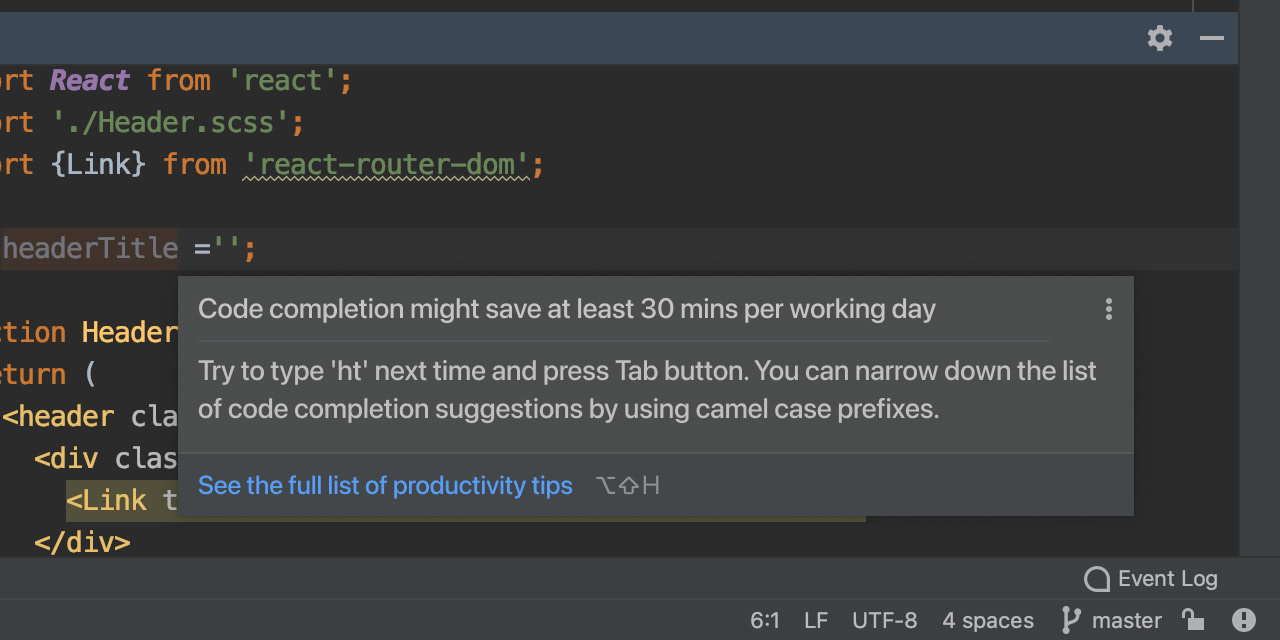
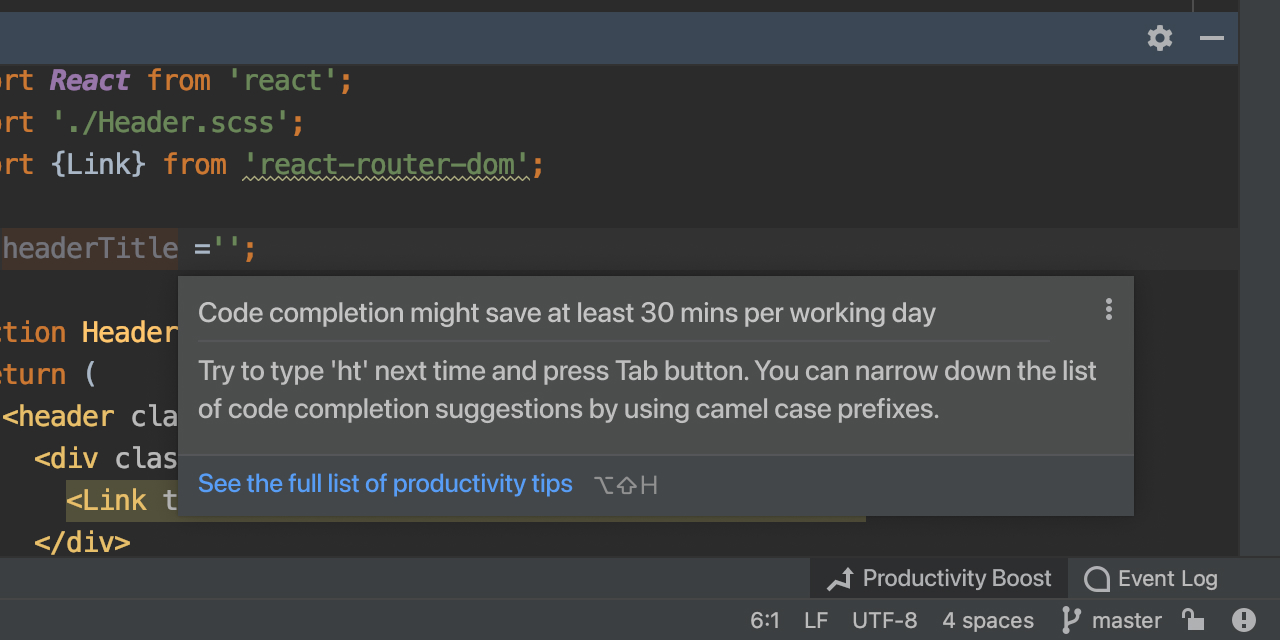
Haha, commit

Changed region(s): [[0.1562, 0.4688, 0.75, 0.5312], [0.1562, 0.7188, 0.5312, 0.7812], [0.6562, 0.875, 0.8125, 0.9375]]

diff --git a/docs/jb.html b/docs/jb.html
@@ -33,11 +33,11 @@
             <imgcaption class="article__image-caption">Click to the img to see full size version</imgcaption></a></figure>
         <p>It would be a perspective hypothesis, but the importunity of this decision was confusing me. IDEA has a lot of close to the code features (for example, quick fixes hint's, intention bulbs, colour highlighting). One more tip near the code can annoy users:</p>
         <figure class="article__image">
-          <iframe width="640" height="380" src="https://www.youtube.com/embed/jNE6T4oaRNE" frameborder="0" allow="accelerometer; autoplay; clipboard-write; encrypted-media; gyroscope; picture-in-picture" allowfullscreen></iframe>
+          <iframe width="640" height="380" src="https://www.youtube.com/embed/jNE6T4oaRNE" allow="accelerometer; autoplay; clipboard-write; encrypted-media; gyroscope; picture-in-picture" allowfullscreen></iframe>
         </figure>
         <p>So, I'd started to search for another place for showing the tips. Then I remembered about Event Log notifications and tried to place "Productivity Guide" functionality to the IDE's footer.</p>
         <figure class="article__image">
-          <iframe width="640" height="380" src="https://www.youtube.com/embed/E60TJW7wdTo" frameborder="0" allow="accelerometer; autoplay; clipboard-write; encrypted-media; gyroscope; picture-in-picture" allowfullscreen></iframe>
+          <iframe width="640" height="380" src="https://www.youtube.com/embed/E60TJW7wdTo" allow="accelerometer; autoplay; clipboard-write; encrypted-media; gyroscope; picture-in-picture" allowfullscreen></iframe>
         </figure>
         <figure class="article__image"><a href="../../img/jb-004.jpg" target="blank"><img src="img/jb-004.jpg"></a></figure>
         <p>As for me, this way is a good compromise between saving the context and unobtrusiveness. We prompt the user concrete way to boost his productivity as quickly as possible and suggest to learn more features.</p>
@@ -47,7 +47,7 @@
         <figure class="article__image"><a href="../../img/jb-003.jpg" target="blank"><img src="img/jb-003.jpg"></a></figure>
         <p>Hints in the right panel are available:</p>
         <figure class="article__image">
-          <iframe width="640" height="380" src="https://www.youtube.com/embed/Gjl__SPwXmA" frameborder="0" allow="accelerometer; autoplay; clipboard-write; encrypted-media; gyroscope; picture-in-picture" allowfullscreen></iframe>
+          <iframe width="640" height="380" src="https://www.youtube.com/embed/bwRMHduwszQ" allow="accelerometer; autoplay; clipboard-write; encrypted-media; gyroscope; picture-in-picture" allowfullscreen></iframe>
         </figure>
         <h2>How we can level up this solution</h2>
         <p>Time is the best resource for the modern era and "Productivity Guide" has perfect info about saving it. We can make this metric predictable and tell users about lost savings. For example, we can analyze current document and show the places where user can save the time if he uses our productivity features:</p>
@@ -61,11 +61,11 @@
         <p>Firstly I thought we can track the count of Community Boost panels' and modal's opening before release and after. Also, we can track the growth of marking features as known.</p>
         <p class="article__text_secondary">In this case we should add hide-option. Otherwise, users can mark unnecessary features as known.</p>
         <figure class="article__image"><a href="../../img/jb-008.jpg" target="blank"><img src="img/jb-008.jpg"></a></figure>
-        <p>But I think it isn't the main goal for us. Why are you developing Community Guide? As for me, you want to improve work efficiency. If we decide to analyze spended time for every case, we can get we difference between average spending time before and after using the feature.</p>
+        <p>But I think it isn't the main goal for us. Why are you developing Community Guide? As for me, you want to improve work efficiency. If we decide to analyze spent time for every case, we can get we difference between average spending time before and after using the feature.</p>
         <p class="article__text_secondary">For example, get the "Editor delete line" feature. Let's compare the average time what users spent before using Cmd+Del and after.</p>
         <p>I understand, that we can't track all of the features. For example, I can't image how we can measure "Directory Diff" efficiency (comparison "didn't use/using now" is unreliable). In such cases, we can use user testing.</p>
         <h2>A couple of things which confuse me in this decision</h2>
-        <p>I don't know your analytics posibilities. Maybe some metrics look like overengineering or you can't analyze all of the user data into the big projects. Anyway, I am sure that we shouldn't improve the attendance of the Community Guide modal, we should try to increase user efficiency. Community Guide modal is just an instrument for it.</p>
+        <p>I don't know your analytics possibilities. Maybe some metrics look like overengineering or you can't analyze all of the user data into the big projects. Anyway, I am sure that we shouldn't improve the attendance of the Community Guide modal, we should try to increase user efficiency. Community Guide modal is just an instrument for it.</p>
         <p>All of designed cases might be worked out in depth. I didn't pay attention for keyboard navigation or narrow cases. If you want to look at the some of it in details or discuss my decisions, lemme know.</p>
         <p>Thanks for attention!</p>
       </div>
